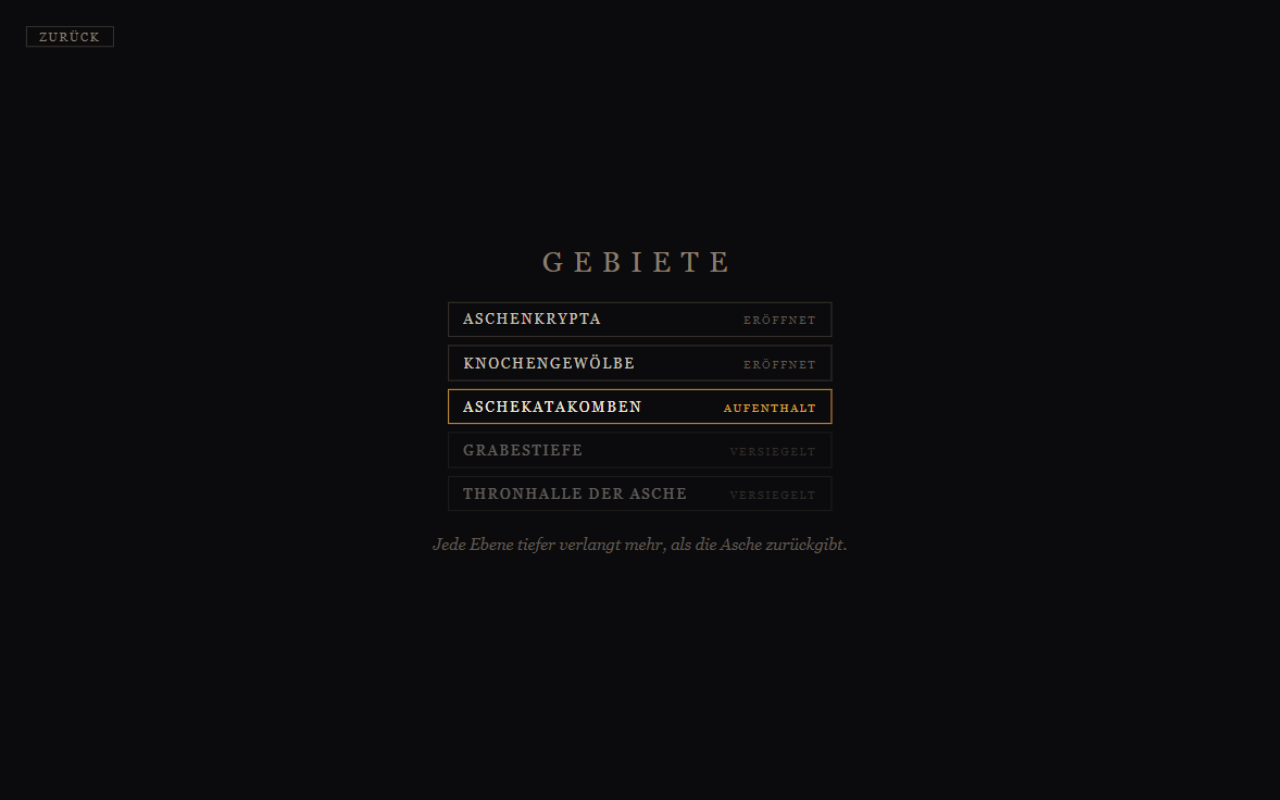
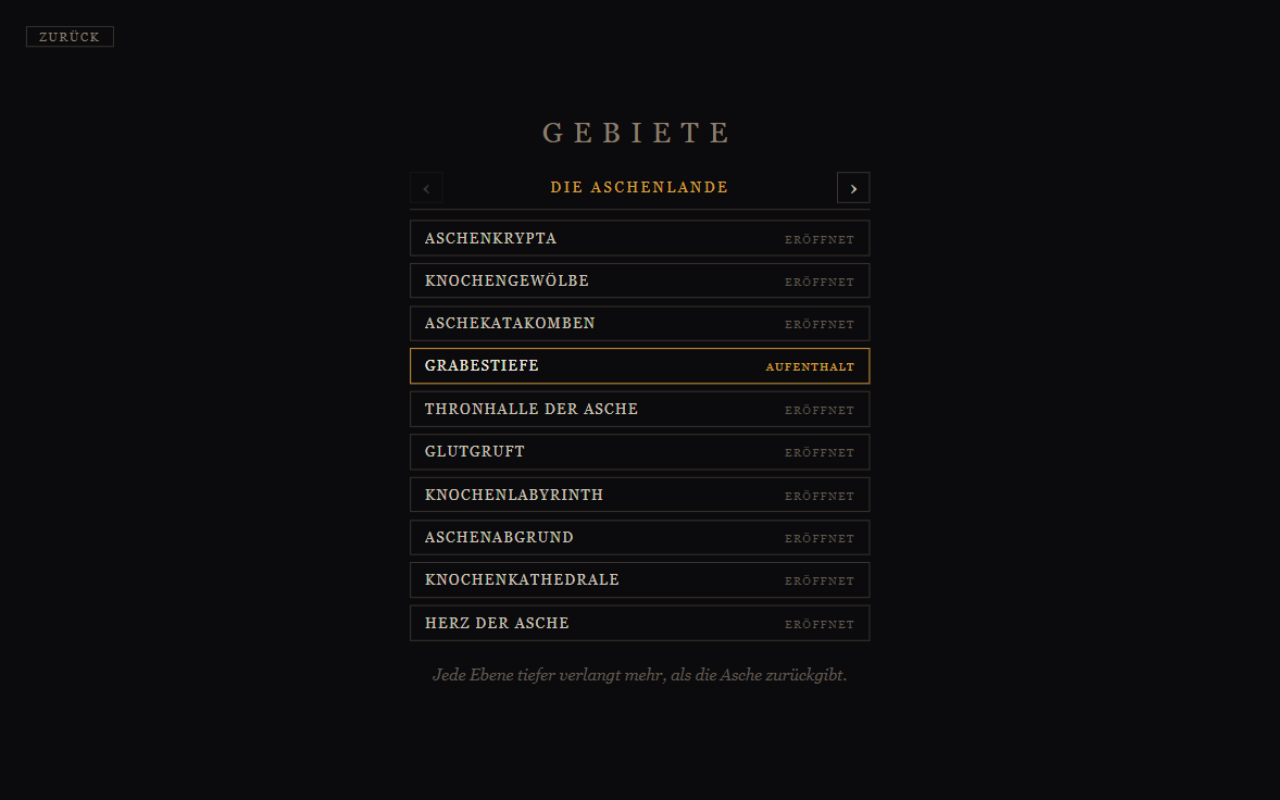
Docs: README auf 5 Kontinente ueberarbeitet, Kampf- und Gebiete-Screenshots neu
- Kontinente-Tabelle mit ilvl-Bereichen und Endbestien ersetzt die alte
  Fuenf-Ebenen-Liste; Zahlenformatierung als Feature erwaehnt
- Projektstruktur auf den Modul-Split aktualisiert (data/zones/items/
  crafting/skilltree/stats/state/dom/settings/scenes.css)
- kampf.png: neues HUD mit Kontinent (Die Aschenlande - Grabestiefe)
  und formatierten Zahlen; gebiete.png: Kontinent-Karussell mit Pfeilen
  und Statusmarkern; skilltree.png bleibt (Baum unveraendert)
- Credits-Abschnitt verweist auf CREDITS.md (game-icons.net, CC BY 3.0)

diff --git a/README.md b/README.md
@@ -2,8 +2,8 @@
   <img src="docs/banner.svg" alt="Ashen Crown" width="840" />
 
   **Ashen Crown** ist ein inkrementelles Dark-Fantasy-RPG: Du erwachst in der Asche,
-  kämpfst dich Ebene für Ebene tiefer in die Krypta — und formst dabei einen Helden,
-  der ganz nach deinem Willen geformt ist.
+  kämpfst dich Gebiet für Gebiet durch **fünf Kontinente** — und formst dabei einen
+  Helden, der ganz nach deinem Willen geformt ist.
 
   [![Vite](https://img.shields.io/badge/Vite-8-646CFF?logo=vite&logoColor=white)](https://vite.dev)
   [![Tauri](https://img.shields.io/badge/Tauri-2-24C8DB?logo=tauri&logoColor=white)](https://tauri.app)
@@ -19,7 +19,7 @@
 
 Ashen Crown ist ein Idle-RPG: Der Kampf läuft von allein, die Entscheidungen triffst du.
 Erlege Kreaturen, sammle Asche, schärfe Klinge und Haut, rüste Beute aus — und steige
-Ebene für Ebene tiefer, bis du dem Wächter des Thrones gegenüberstehst.
+Gebiet für Gebiet tiefer, bis dir am Ende der Leere die Aschenkrone selbst gegenübersteht.
 
 | Kampf | Fertigkeiten | Gebiete |
 | :---: | :---: | :---: |
@@ -32,7 +32,9 @@ Ebene für Ebene tiefer, bis du dem Wächter des Thrones gegenüberstehst.
   Ascheratte bis zur Aschenkrone.
   Pro Ebene wartet nach 30 Siegen ein Boss; sein Fall öffnet die Tür in die Tiefe —
   und irgendwann das Tor zum nächsten Kontinent.
-  Über die Gebiete-Karte reist du für sicheres Farmen in freigeschaltete Ebenen zurück.
+  Die Gebiete-Karte zeigt jeden Kontinent groß im Überblick; mit den Pfeilen blätterst
+  du zwischen den Kontinenten, und für sicheres Farmen reist du in freigeschaltete
+  Ebenen zurück.
 - **Fertigkeitenbaum** — **217 Knoten** im Path-of-Exile-Stil: vier Pfade
   (Krieg, Haut, Asche, Geist) mit kleinen Passives, Notables und **12 Keystones mit
   Tradeoffs**. **12 Brücken** verbinden die Pfade miteinander — für Misch-Builds,
@@ -47,21 +49,23 @@ Ebene für Ebene tiefer, bis du dem Wächter des Thrones gegenüberstehst.
 - **Stufen & Asche** — Jede Stufe bringt 3 Statpunkte und 1 Skillpunkt; Asche finanziert
   Klinge und Haut im Kampf selbst — oder in der Werkstatt Verstärkung und Umschmieden.
   Beide Wege stärken denselben Helden, keinen zweiten.
+- **Zahlen, die mitwachsen** — Spät werden Werte astronomisch; das Spiel hält sie
+  lesbar: kompakte Kurzschreibweise mit deutschem Komma („12,4K", „3,2M", „1,5B").
 - **Offline-Fortschritt** — Bis zu **8 Stunden** kämpft dein Held ohne dich weiter und
   meldet dir bei der Rückkehr, was er erlegt, gefunden und gelernt hat.
 
-## 🗺 Die fünf Ebenen
+## 🌍 Die fünf Kontinente
 
-1. **Aschenkrypta** — Hier beginnt und endet jeder Weg.
-   *Ascheratte · Knochenfresser · Grabwächter*
-2. **Knochengewölbe** — Was hier knirscht, war einmal Ritter.
-   *Knochenkriecher · Beinhausritter · Gebeinwächter*
-3. **Aschekatakomben** — Die Wände atmen Asche aus.
-   *Aschenwicht · Glutgeist · Aschenmutter*
-4. **Grabestiefe** — Selbst die Ratten haben aufgehört zu wimmern.
-   *Grabwurm · Aaskrone · Der Bestattete*
-5. **Thronhalle der Asche** — Die Krone wartet. Sie wartet immer noch.
-   *Hofschatten · Kronenritter · Der Thronende*
+| # | Kontinent | Gebiete | Bestie an der Spitze |
+| --- | --- | --- | --- |
+| 1 | **Die Aschenlande** | 1–182 | *Der Aschegott* im Herz der Asche |
+| 2 | **Das Frostreich** | 222–762 | *Der Frostgott* im Herz des Winters |
+| 3 | **Das Faulmoor** | 842–1742 | *Der Moorgott* im Herz des Moores |
+| 4 | **Das Blutmark** | 1862–3122 | *Der Blutgott* im Herz des Blutes |
+| 5 | **Die Sternenleere** | 3282–4902 | *Die Aschenkrone* im Herz der Leere |
+
+Die Zahlen hinter jedem Kontinent sind die Gegenstandsstufen (ilvl) seiner zehn
+Gebiete — je tiefer die Ebene, desto besser Beute und Werkstatt.
 
 ## 🌳 Die vier Pfade
 
@@ -87,11 +91,27 @@ pnpm build          # Produktions-Build nach dist/
 ├── index.html            # UI-Grundgerüst (Menü, Schrein, Szenen)
 ├── src/
 │   ├── main.js           # Einstieg: Menü und Spielstart
-│   ├── game.js           # Spiellogik: Kampf, Zonen, Loot, Skilltree, Speicherung
-│   └── style.css         # Styling
+│   ├── data.js           # Spieldaten: Kontinente, Gegner, Loot, Skilltree
+│   ├── game.js           # Spielloop: Kampf, Fortschritt, Speicherung
+│   ├── zones.js          # Gebiete-Karte: Kontinente & Durchschalten
+│   ├── items.js          # Loot, Inventar, Vergleiche, Verkauf
+│   ├── crafting.js       # Werkstatt: Verstärken & Umschmieden
+│   ├── skilltree.js      # Fertigkeitenbaum: Graph & Punktevergabe
+│   ├── stats.js          # Heldenwerte aus Basis, Gear, Skills & Meisterschaft
+│   ├── state.js          # Spielstand & Einstellungen (localStorage)
+│   ├── dom.js            # DOM-Cache
+│   ├── settings.js       # Optionen laden/speichern/anwenden
+│   ├── style.css         # Basis-Styling
+│   └── scenes.css        # Szenen: Inventar, Karte, Werkstatt, Optionen
 ├── docs/                 # Banner & Screenshots für dieses README
 └── src-tauri/            # Tauri-2-Desktop-Shell (Rust)
 ```
+
+## 📜 Credits
+
+Ausrüstungs-Icons von [game-icons.net](https://game-icons.net) (Lorc, Delapouite),
+Lizenz [CC BY 3.0](https://creativecommons.org/licenses/by/3.0/) — Details in
+[CREDITS.md](CREDITS.md).
 
 ---
 
